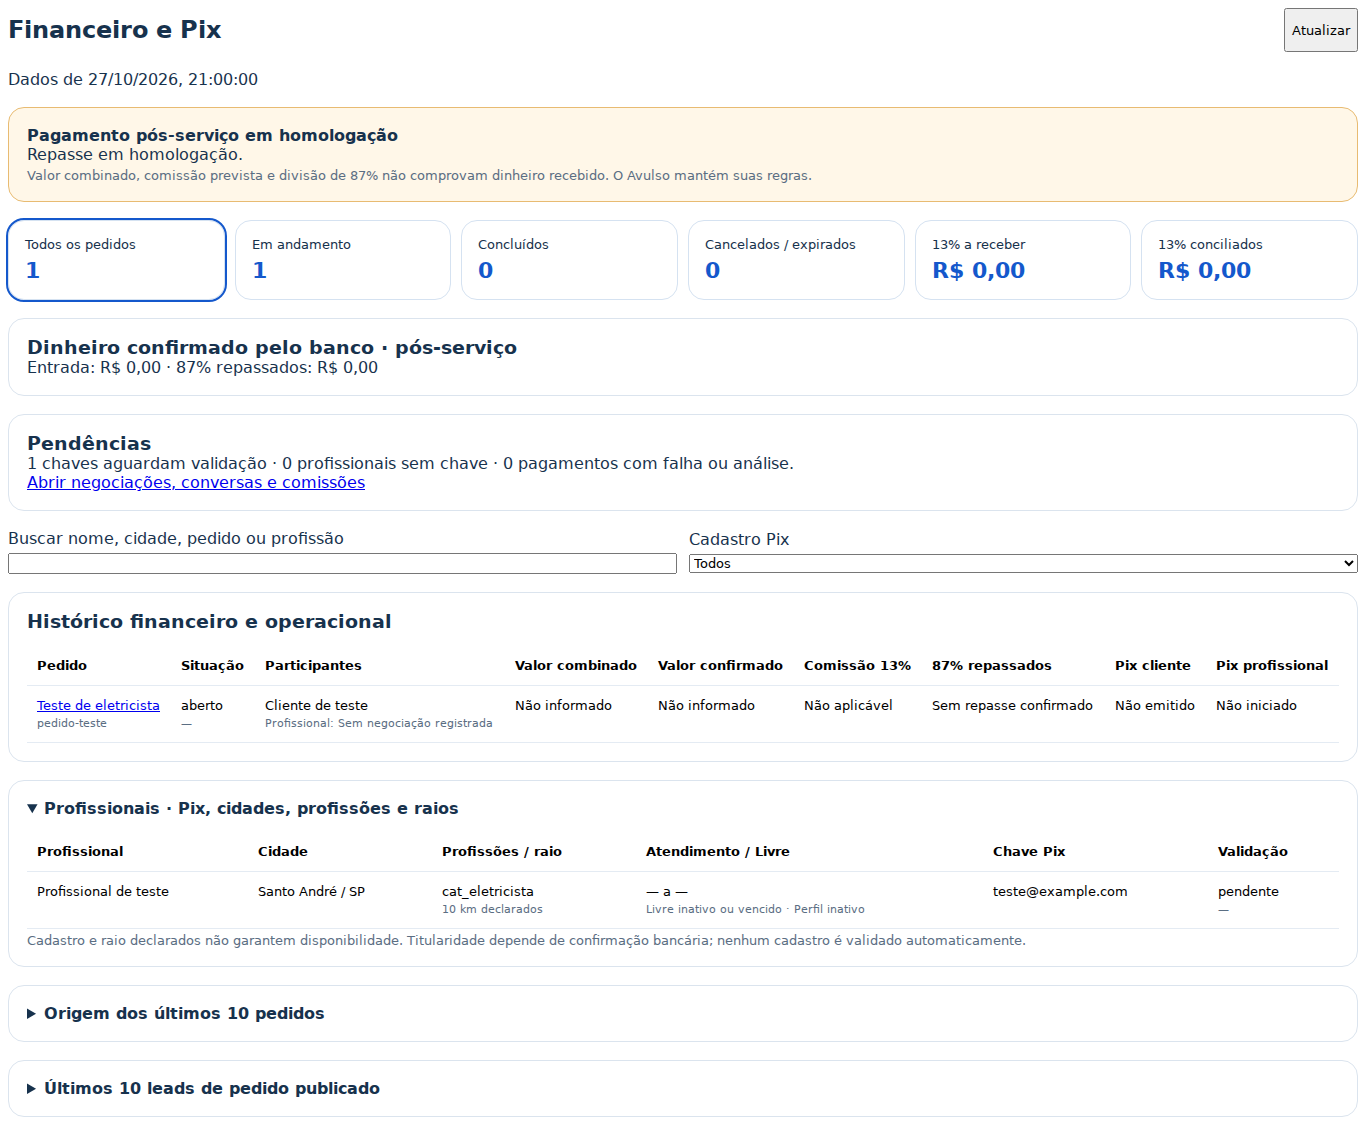
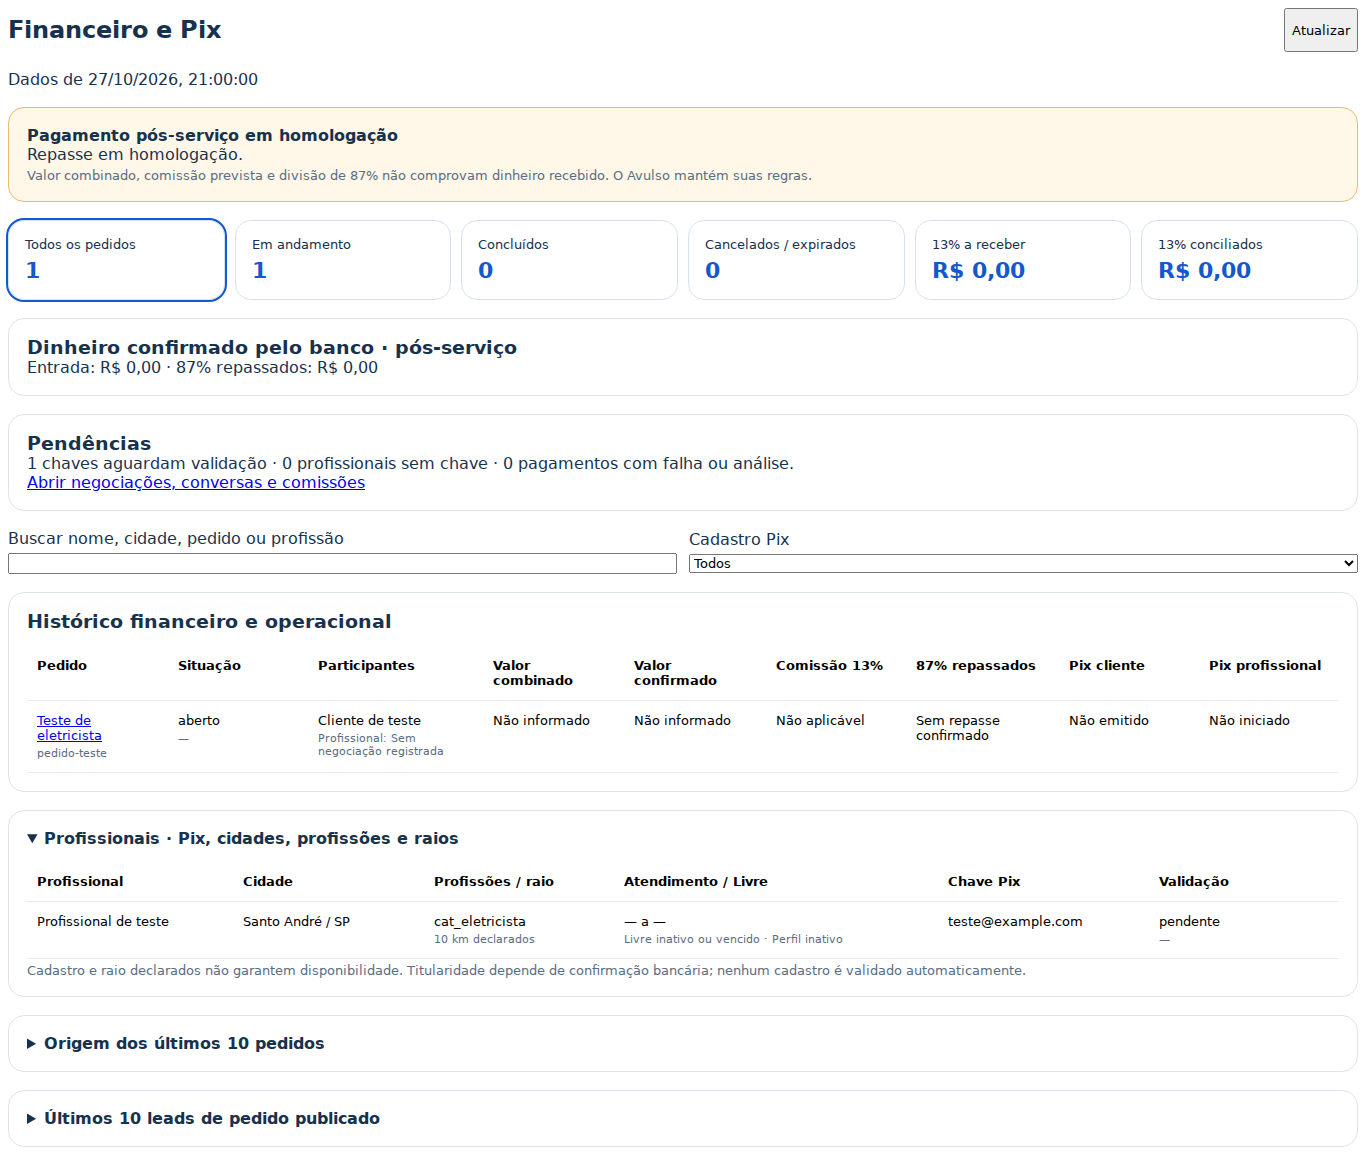
Melhorar legibilidade do financeiro e busca por profissional

diff --git a/qf-admin-financeiro.js b/qf-admin-financeiro.js
@@ -17,7 +17,7 @@
  }
  function install(){
   if(!g.Screens||g.Screens._qff)return;g.Screens._qff=true;
-  const css=g.document.createElement('style');css.textContent='.qff{display:grid;gap:18px;color:#17324d;min-width:0}.qff h2,.qff h3,.qff p{margin:0}.qff-head,.qff-controls{display:flex;flex-wrap:wrap;gap:12px;align-items:center;justify-content:space-between}.qff-cards{display:grid;grid-template-columns:repeat(auto-fit,minmax(150px,1fr));gap:10px}.qff-card{border:1px solid #d5e2f1;background:#fff;border-radius:16px;padding:16px;text-align:left;color:inherit;cursor:pointer}.qff-card strong{display:block;font-size:22px;margin-top:6px;color:#1458cc}.qff-card[aria-pressed=true]{outline:2px solid #1458cc}.qff section,.qff details{border:1px solid #dbe4ee;border-radius:16px;background:#fff;padding:18px;min-width:0}.qff summary{font-weight:750;cursor:pointer}.qff-scroll{overflow-x:auto;margin-top:14px}.qff table{border-collapse:collapse;width:100%;font-size:13px;min-width:660px}.qff th,.qff td{text-align:left;vertical-align:top;padding:12px 10px;border-bottom:1px solid #e4ebf3;max-width:320px;overflow-wrap:anywhere}.qff small{display:block;color:#5b6e83;margin-top:4px}.qff .qff-alert{background:#fff7e8;border-color:#e8bb72}.qff label{display:grid;gap:5px;flex:1;min-width:160px}.qff .btn{width:auto;min-height:44px}.qff-controls input,.qff-controls select{width:100%}.qff-error{color:#a22825}@media(max-width:500px){.qff section,.qff details{padding:12px}.qff-cards{grid-template-columns:1fr 1fr}.qff-card{padding:12px}.qff-card strong{font-size:18px}}';g.document.head.append(css);
+  const css=g.document.createElement('style');css.textContent='.qff{display:grid;gap:18px;color:#17324d;min-width:0}.qff h2,.qff h3,.qff p{margin:0}.qff-head,.qff-controls{display:flex;flex-wrap:wrap;gap:12px;align-items:center;justify-content:space-between}.qff-cards{display:grid;grid-template-columns:repeat(auto-fit,minmax(150px,1fr));gap:10px}.qff-card{border:1px solid #d5e2f1;background:#fff;border-radius:16px;padding:16px;text-align:left;color:inherit;cursor:pointer}.qff-card strong{display:block;font-size:22px;margin-top:6px;color:#1458cc}.qff-card[aria-pressed=true]{outline:2px solid #1458cc}.qff section,.qff details{border:1px solid #dbe4ee;border-radius:16px;background:#fff;padding:18px;min-width:0}.qff summary{font-weight:750;cursor:pointer}.qff-scroll{overflow-x:auto;margin-top:14px}.qff table{border-collapse:collapse;width:100%;font-size:13px;min-width:660px}.qff th,.qff td{min-width:120px;text-align:left;vertical-align:top;padding:12px 10px;border-bottom:1px solid #e4ebf3;max-width:320px;overflow-wrap:anywhere}.qff small{display:block;color:#5b6e83;margin-top:4px}.qff .qff-alert{background:#fff7e8;border-color:#e8bb72}.qff label{display:grid;gap:5px;flex:1;min-width:160px}.qff .btn{width:auto;min-height:44px}.qff-controls input,.qff-controls select{width:100%}.qff-error{color:#a22825}@media(max-width:500px){.qff section,.qff details{padding:12px}.qff-cards{grid-template-columns:1fr 1fr}.qff-card{padding:12px}.qff-card strong{font-size:18px}}';g.document.head.append(css);
   const prev=g.Screens.afterRender;
   async function enhance(pattern,content){
    if(!['/admin/dashboard','/admin/financeiro'].includes(pattern)||content.querySelector('[data-qff]'))return;
@@ -30,7 +30,7 @@
     const orders=data.pedidos||[],keys=data.chaves||[],payments=data.pagamentos||[],t=totals(data,neg);
     const cards=[['todos','Todos os pedidos',orders.length],['andamento','Em andamento',orders.filter(o=>!['concluido','cancelado','expirado'].includes(o.status)).length],['concluidos','Concluídos',orders.filter(o=>o.status==='concluido').length],['cancelados','Cancelados / expirados',orders.filter(o=>['cancelado','expirado'].includes(o.status)).length],['receber','13% a receber',money(t.receber)],['recebida','13% conciliados',money(t.recebida)]];
     const search=r=>JSON.stringify(r).toLocaleLowerCase('pt-BR').includes(query.toLocaleLowerCase('pt-BR'));
-    const rows=orders.filter(orderInFilter).filter(search).flatMap(o=>{
+    const rows=orders.filter(orderInFilter).filter(o=>search(o)||neg.some(n=>n.chamado_id===o.id&&search(n))).flatMap(o=>{
      const matches=neg.filter(n=>n.chamado_id===o.id);return (matches.length?matches:[{}]).map(n=>{
       const p=payments.find(p=>p.chamado_id===o.id&&p.profissional_id===n.profissional_id);
       return ['<a href="#/admin/servicos/'+esc(o.id)+'">'+esc(o.titulo||o.categoria)+'</a><small>'+esc(o.id)+'</small>',esc(o.status)+'<small>'+esc(date(o.criado_em))+'</small>',esc(o.cliente)+'<small>Profissional: '+esc(n.profissional||'Sem negociação registrada')+'</small>',money(n.valor_aceito_centavos??n.valor_informado_centavos),money(n.valor_confirmado_centavos),n.origem==='comissao13'?money(n.comissao_centavos)+'<small>'+esc(n.cobranca_status==='paga'?(n.pagamento_conciliado?'Recebida e conciliada':'Em análise: sem conciliação'):n.cobranca_status||'Previsão')+'</small>':'Não aplicável',bankOut(p)?money(p.profissional_centavos):'Sem repasse confirmado',esc(bankIn(p)?'Pago':p?.erro||p?.status==='em_analise'?'Em análise':p?'Aguardando':'Não emitido'),esc(bankOut(p)?'Recebido':p?.erro?'Falhou / em análise':p?.status==='pago'?'Aguardando repasse':p?'Aguardando':'Não iniciado')];

diff --git a/docs/missao-operacao-20261028.md b/docs/missao-operacao-20261028.md
@@ -27,11 +27,11 @@ Valores abaixo são **orçamentos configurados, não gastos realizados**.
 | Google 24318526983 — reparos/limpeza | Ativa | 29,20 |
 | Google 24310102048 — instalação/pintura | Ativa | 30,80 |
 | Google 24346726219 — cadastro de profissionais | Pausada | 1,00, sem entrega |
-| Meta 52598343778388 — clientes, Facebook + Instagram | Ativa; anúncio editado em análise | 30,00 compartilhados |
+| Meta 52598343778388 — clientes, Facebook + Instagram | Ativa; anúncio editado e aprovado | 30,00 compartilhados |
 | Meta 52591042341788 — profissionais | Ativa, objetivo separado | 30,00 |
 
 - Google: nenhum aumento, nenhuma campanha reativada. Preservadas negativas existentes contra vagas, cursos, recrutamento e tutoriais. Grupo adicional de fogão/micro-ondas criado **pausado**, ID 205190718361, anúncio 829756818196, sem iniciar gasto adicional. Sua ativação aguarda validação da meta principal na conta.
-- Meta: texto de clientes atualizado para a mensagem solicitada, preservando a campanha, o criativo e R$ 30/dia compartilhados entre Facebook e Instagram. `write_status=applied`; anúncio entrou em revisão. Campanha de profissionais preservada separadamente.
+- Meta: texto de clientes atualizado para a mensagem solicitada, preservando a campanha, o criativo e R$ 30/dia compartilhados entre Facebook e Instagram. `write_status=applied`; anúncio aprovado na leitura final. Campanha de profissionais preservada separadamente.
 - Cobertura: confrontadas especialidades, coordenadas e raios com profissionais de perfil ativo, foto e saldo positivo ou Livre vigente. Na região circular de 30 km de São Paulo há ao menos um cadastro com cobertura integral para cada profissão dos grupos ativos; há 2 para geladeira e 2 para fogão/micro-ondas. Cadastro/raio não garante comparecimento ou disponibilidade em cada horário.
 - O código de conversão coincide com o snippet de **Pedido publicado**, ação 7662297511: `AW-18273159663/RIX-CKfD1cUcEO-TqYlE`. O teste local prova disparo após persistência; **não confirma se a ação está como principal/biddable nem se a atribuição chegou ao Google**.
 - Gastos, termos de pesquisa e CPA não puderam ser consultados: Supermetrics retornou `TRIAL_EXPIRED`, equipe 1165792, expiração 14/10/2026. Não foram inventados números ou termos de desperdício. Necessário restaurar a conexão paga para concluir auditoria de retorno e meta principal. Nenhuma assinatura foi contratada.
@@ -45,3 +45,7 @@ Valores abaixo são **orçamentos configurados, não gastos realizados**.
 - Pendências técnicas antes de ativar a PR #147: implantar e testar webhook autenticado que reconsulta o banco; reconciliação contínua de estornos posteriores à liquidação; políticas/fluxo administrativo para devolução, falhas permanentes e tarifas; prova de notificações separadas em aparelhos reais; testes bancários controlados. Bloqueios adicionais de webhook/limites/tarifas permanecem falsos por padrão.
 
 Não considerar a missão integralmente concluída: faltam homologação bancária, validação autenticada das jornadas de produção e auditoria completa dos anúncios.
+
+## Publicação comprovada
+
+PR #149 incorporada, commit `d7fedbe9c5bcddc1ac2c1f4327890263513a396c`. Deploy de produção `dpl_5X325nPqaeKuGyBy37oZm8RB3hEw` READY. Domínio oficial e preview devolveram os arquivos de Carteira, painel e Service Worker idênticos ao build testado. Ajuste final de legibilidade das tabelas e busca por nome do profissional validado nesta sequência.
